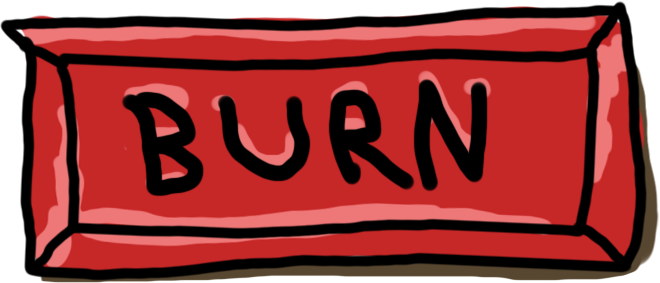
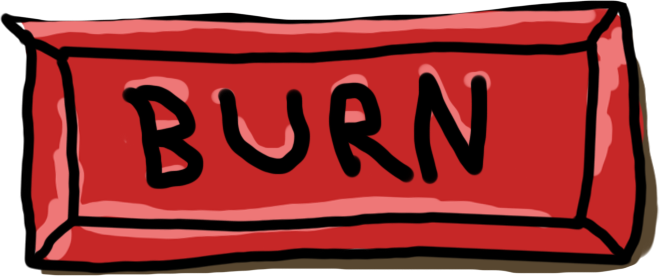
added hover and active states to buttons

diff --git a/src/pages/Home.tsx b/src/pages/Home.tsx
@@ -1,4 +1,5 @@
 import React from "react";
+import { KengButton } from "../components";
 
 const LINKS = [
   {
@@ -31,20 +32,8 @@ const Home = () => {
           />
 
           <div className="flex w-[50%] items-center gap-x-[1%]">
-            <button>
-              <img
-                src="/images/buy-button.png"
-                className="select-none  hover:rotate-3 hover:scale-[101%] hover:brightness-110 active:brightness-90"
-                draggable={false}
-              />
-            </button>
-            <button>
-              <img
-                src="/images/burn-button.png"
-                className="select-none"
-                draggable={false}
-              />
-            </button>
+            <KengButton type="gold" />
+            <KengButton type="red" />
           </div>
         </div>
 
@@ -66,13 +55,10 @@ const Home = () => {
         </div>
 
         {/* website graphic */}
-        <button className="absolute left-1/2 top-[53.5%]  z-50 w-[20%] -translate-x-1/2">
-          <img
-            src="/images/buy-button.png"
-            className="select-none"
-            draggable={false}
-          />
-        </button>
+        <KengButton
+          type="gold"
+          className="absolute left-1/2 top-[53.5%]  z-50 w-[20%] -translate-x-1/2"
+        />
 
         <img
           src="/images/website_graphic.webp"

diff --git a/src/components/KengButton/KengButton.tsx b/src/components/KengButton/KengButton.tsx
@@ -1,0 +1,35 @@
+import React from "react";
+import { cn } from "../../lib/utils";
+
+interface KengButtonProps {
+  type?: "gold" | "red";
+  className?: string;
+}
+
+const StaticState = {
+  gold: "/images/buy-button.png",
+  red: "/images/burn-button.png",
+};
+const HoverState = {
+  gold: "/images/buy-button-hover.png",
+  red: "/images/burn-button-hover.png",
+};
+
+const KengButton = ({ type = "gold", className }: KengButtonProps) => {
+  return (
+    <button className={cn("group relative", className)}>
+      <img
+        src={StaticState[type]}
+        className="select-none hover:scale-[102%]"
+        draggable={false}
+      />
+      <img
+        src={HoverState[type]}
+        className="absolute inset-0 select-none opacity-0 hover:scale-[102%]  active:scale-[98%] active:brightness-90 group-hover:opacity-100"
+        draggable={false}
+      />
+    </button>
+  );
+};
+
+export default KengButton;

diff --git a/src/lib/utils.ts b/src/lib/utils.ts
@@ -1,0 +1,4 @@
+import { clsx, type ClassValue } from "clsx";
+import { twMerge } from "tailwind-merge";
+
+export const cn = (...inputs: ClassValue[]) => twMerge(clsx(inputs));

diff --git a/src/components/KengButton/index.tsx b/src/components/KengButton/index.tsx
@@ -1,0 +1,1 @@
+export { default as KengButton } from "./KengButton";

diff --git a/src/components/index.tsx b/src/components/index.tsx
@@ -1,0 +1,1 @@
+export { KengButton } from "./KengButton";
